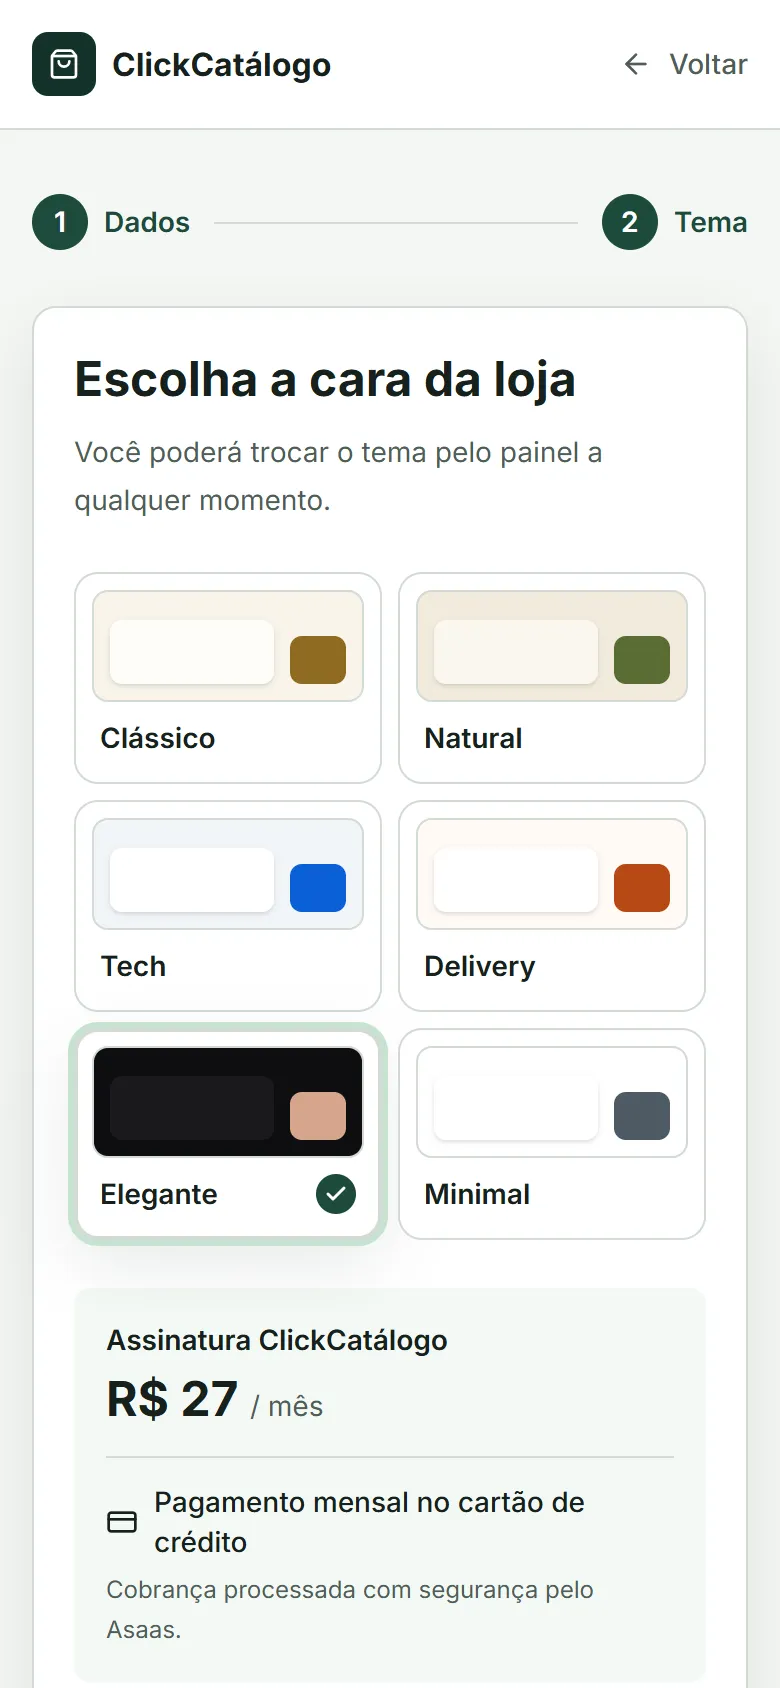
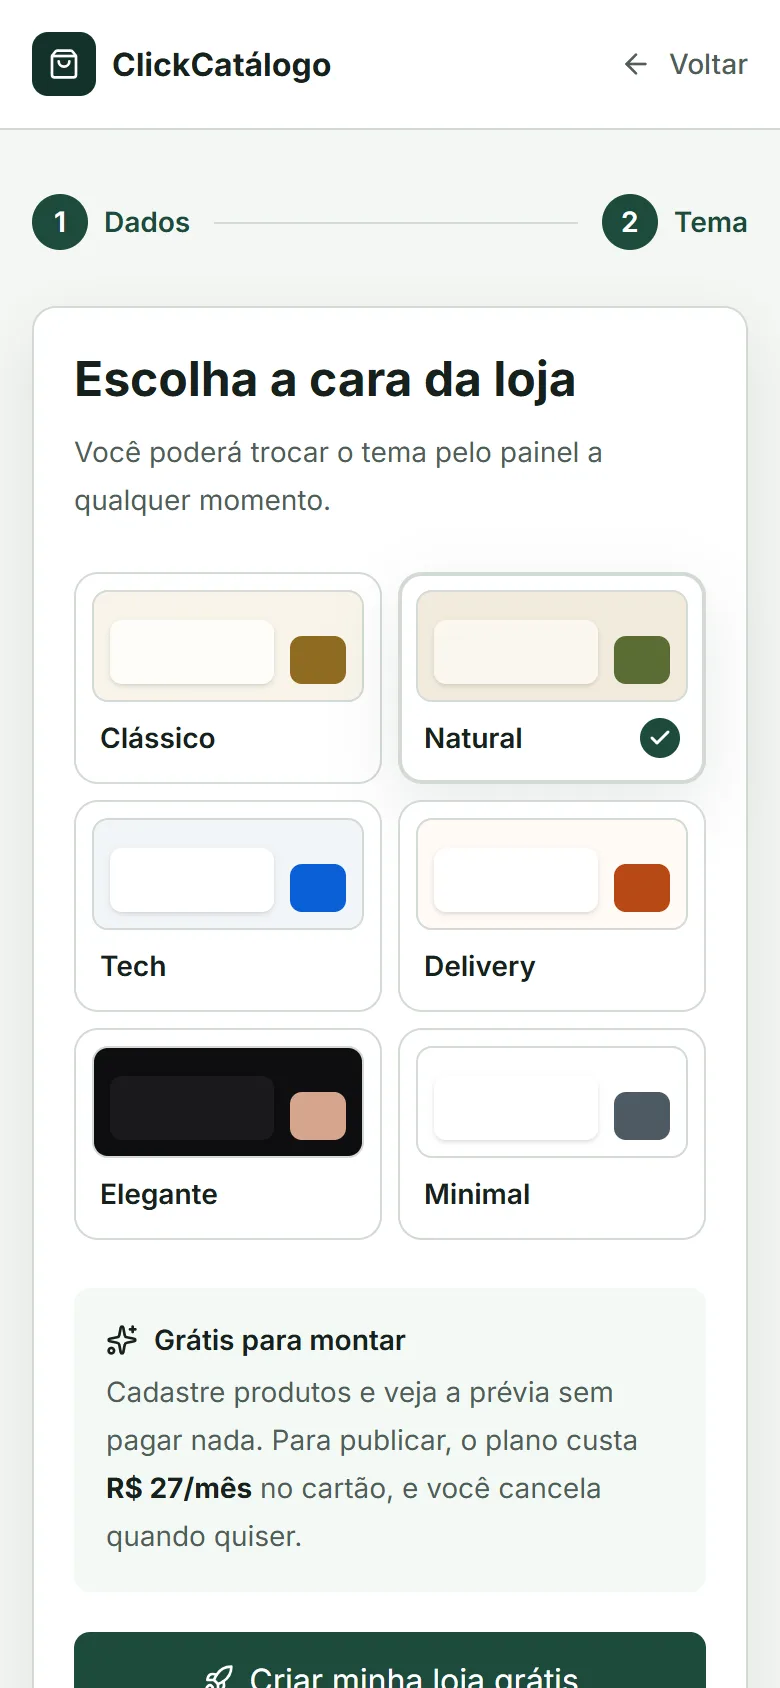
docs(site): new signup prints for /como-funciona and aligned two-column fields
The signup now asks for a password and step 2 shows "Grátis para montar".
Field aligns its content to the top so a field without helper text no
longer stretches below its neighbour in two-column grids.

Changed region(s): [[0.0923, 0.7701, 0.9231, 1.0], [0.0615, 0.5853, 0.5231, 0.7393], [0.8, 0.4005, 0.8923, 0.4621]]

diff --git a/src/app/(public)/como-funciona/page.tsx b/src/app/(public)/como-funciona/page.tsx
@@ -58,7 +58,7 @@ export default function HowItWorksPage() {
             number={1}
             title="Crie sua loja"
           >
-            <ResponsiveShot alt="Formulário de cadastro com nome da loja, WhatsApp, e-mail e endereço preenchidos" desktop="/como-funciona/cadastro-dados.webp" eager mobile="/como-funciona/cadastro-dados-celular.webp" url="clickcatalogo.com/cadastro" />
+            <ResponsiveShot alt="Formulário de cadastro com nome da loja, WhatsApp, e-mail, endereço e senha preenchidos" desktop="/como-funciona/cadastro-dados.webp" eager mobile="/como-funciona/cadastro-dados-celular.webp" url="clickcatalogo.com/cadastro" />
           </Step>
 
           <Step
@@ -68,7 +68,7 @@ export default function HowItWorksPage() {
             reverse
             title="Escolha o visual"
           >
-            <ResponsiveShot alt="Escolha do tema Elegante com a prévia da loja ao vivo" desktop="/como-funciona/cadastro-tema.webp" mobile="/como-funciona/cadastro-tema-celular.webp" url="clickcatalogo.com/cadastro" />
+            <ResponsiveShot alt="Escolha do tema com a prévia da loja ao vivo e o aviso Grátis para montar" desktop="/como-funciona/cadastro-tema.webp" mobile="/como-funciona/cadastro-tema-celular.webp" url="clickcatalogo.com/cadastro" />
           </Step>
 
           <Step

diff --git a/src/components/ui/field.tsx b/src/components/ui/field.tsx
@@ -3,7 +3,9 @@ import type { ComponentProps } from "react";
 import { cn } from "@/lib/utils/cn";
 
 export function Field({ className, ...props }: ComponentProps<"div">) {
-  return <div className={cn("grid gap-2", className)} {...props} />;
+  // content-start: em grades de duas colunas, um campo sem texto de ajuda não
+  // "estica" e o input fica alinhado com o do lado.
+  return <div className={cn("grid content-start gap-2", className)} {...props} />;
 }
 
 export function FieldLabel({ className, ...props }: ComponentProps<"label">) {
